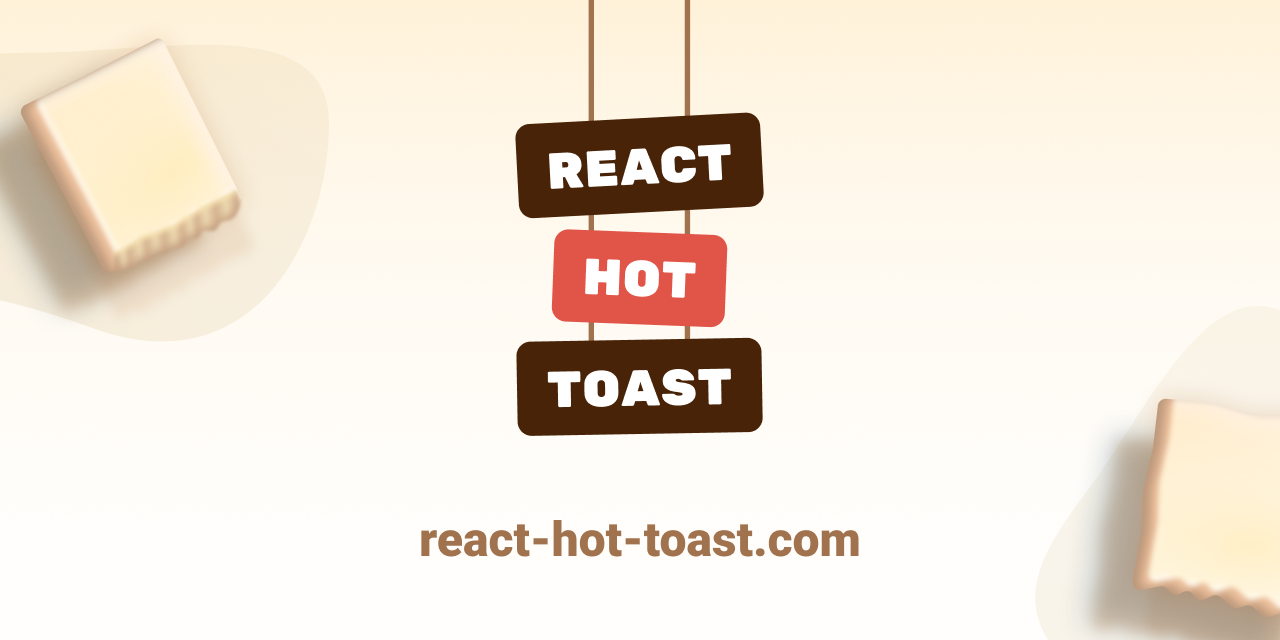
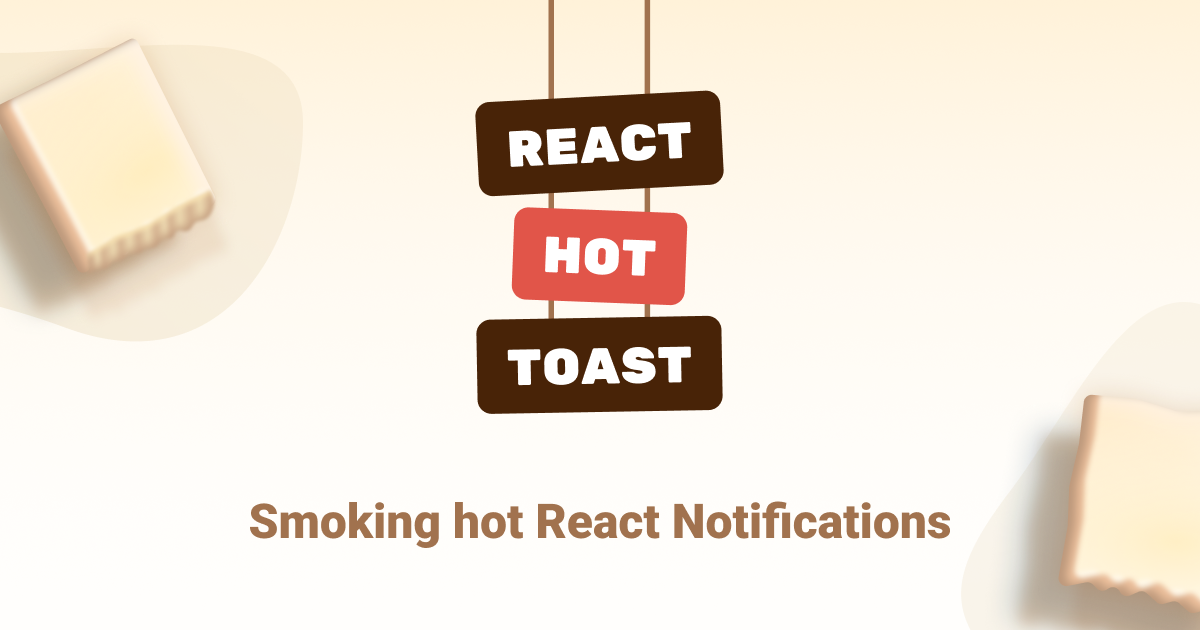
Landing page style improvements + Add Next-seo + OG Image

diff --git a/site/pages/index.tsx b/site/pages/index.tsx
@@ -1,17 +1,22 @@
-import Head from 'next/head';
-import Link from 'next/link';
+import { NextSeo } from 'next-seo';
 import Logo from '../assets/logo.svg';
 import Butter1 from '../assets/butter-1.svg';
 import Butter2 from '../assets/butter-2.svg';
 import GitHub from '../assets/github.svg';
 import Checkmark from '../assets/checkmark.svg';
-import toast, { Toaster, useToasterStore } from 'react-hot-toast';
+import toast, {
+  Toaster,
+  useToasterStore,
+  ToastPosition,
+} from 'react-hot-toast';
 import React, { useState } from 'react';
 import clsx from 'clsx';
+import { version } from '../../package.json';
 
 import { ToastExample } from '../components/sections/toast-example';
 import { Footer } from '../components/sections/footer';
 import { ToasterExample } from '../components/sections/toaster-example';
+import Link from 'next/link';
 
 const Feature: React.FC = ({ children }) => (
   <div className="flex gap-1 items-center">
@@ -32,7 +37,7 @@ const Step: React.FC<{
     </div>
     <div className="font-bold">{props.title}</div>
     <div className="text-red-700 text-sm">{props.subTitle}</div>
-    <code className="mt-2 border border-red-100 py-2 px-4 rounded font-bold bg-white w-full">
+    <code className="mt-2 border border-toast-200 py-2 px-4 rounded font-bold bg-white w-full">
       {props.code}
     </code>
   </div>
@@ -92,7 +97,7 @@ const Features = () => (
 );
 
 export default function Home() {
-  const [position, setPosition] = useState<any>('top-center');
+  const [position, setPosition] = useState<ToastPosition>('top-center');
   const [reverse, setReverse] = useState(false);
   const { toasts: allToasts } = useToasterStore();
 
@@ -100,33 +105,23 @@ export default function Home() {
     allToasts.filter((t) => t.visible).length && position.includes('top');
   return (
     <div>
-      <Head>
-        <title>react-hot-toast - The best React notifications in town</title>
-      </Head>
+      <NextSeo
+        title={'react-hot-toast - The Best React Notifications in Town'}
+        openGraph={{
+          images: [
+            {
+              url: `https://react-hot-toast.com/social-image.png`,
+              width: 1200,
+              height: 630,
+            },
+          ],
+        }}
+        description="Add beautiful notifications to your React app with react-hot-toast. Lightweight. Smoking hot by default."
+      />
       <header className="bg-gradient-to-b from-toast-50 to-white bg-opacity-10">
         <div className="container  flex flex-col items-center relative">
           <Butter1
             className="absolute -left-24 md:left-24 transition-all duration-200"
-            onClick={() => {
-              // toast(
-              //   <span>
-              //     Pssst! Get -20% off Splitbee Pro:{' '}
-              //     <a href="https://splitbee.io/?butter">
-              //       <code>
-              //         <b>REACT-HOT-TOST</b>
-              //       </code>
-              //     </a>
-              //   </span>,
-              //   {
-              //     icon: (
-              //       <div className="text-3xl min-w-2xl bg-green-500 inline-block">
-              //         🤫 🐝
-              //       </div>
-              //     ),
-              //     duration: 100000,
-              //   }
-              // );
-            }}
             style={{
               opacity: shouldFade ? 0.5 : 1,
             }}
@@ -140,20 +135,14 @@ export default function Home() {
               style={{
                 opacity: shouldFade ? 0.2 : 1,
                 filter: `blur(${shouldFade ? 6 : 0}px)`,
-                // transform: toasts.length
-                //   ? 'translateY(-100%)'
-                //   : 'translateY(0)',
               }}
             />
-            {/* <Link href="/docs">
-              <a className="flex">Documentation</a>
-            </Link> */}
           </div>
           <div className="text-center my-12 relative transition-all duration-200">
-            <h1 className="text-4xl animate-enter font-bold text-toast-900">
+            <h1 className="text-3xl md:text-4xl animate-enter font-bold text-toast-900">
               The Best Toast in Town.
             </h1>
-            <h2 className="text-2xl font-bold text-toast-600 mt-2">
+            <h2 className="text-xl md:text-2xl font-bold text-toast-600 mt-2">
               Smoking hot React notifications.
             </h2>
           </div>
@@ -210,11 +199,13 @@ export default function Home() {
               <span className="flex-1 text-toast-800 text-center">GitHub</span>
             </a>
           </div>
-
-          {/* <div className="m-4 gap-2">
-            <a href="https://github.com/timolins/react-hot-toast">GitHub</a>
-            <a href="https://twitter.com/timolins">Twitter</a>
-          </div> */}
+          <div className="text-toast-600 my-2">
+            <Link href="/docs">
+              <a className="underline">Documentation</a>
+            </Link>
+            {' · '}
+            <span>v{version}</span>
+          </div>
 
           <Features />
           <Steps />
@@ -224,9 +215,7 @@ export default function Home() {
               <ToastExample />
             </div>
             <div className="my-14">
-              <h2 className="mr-5 mb-4 text-right text-2xl font-bold">
-                Change Position
-              </h2>
+              <h2 className="mr-5 mb-4 text-2xl font-bold">Change Position</h2>
 
               <ToasterExample
                 onReverse={setReverse}
@@ -238,7 +227,6 @@ export default function Home() {
           </div>
         </div>
       </header>
-
       <Toaster position={position} reverseOrder={reverse} toastOptions={{}} />
       <div className="container flex justify-end -mt-24 pointer-events-none">
         <Butter2 className="transform translate-x-20" />

diff --git a/site/components/docs-layout.tsx b/site/components/docs-layout.tsx
@@ -1,17 +1,28 @@
 import * as React from 'react';
-import Head from 'next/head';
 import Link from 'next/link';
 import { Footer } from './sections/footer';
 import Logo from '../assets/logo-small.svg';
 import { Toaster } from 'react-hot-toast';
+import { NextSeo } from 'next-seo';
 
 export default function DocsLayout({ children, meta }) {
   return (
     <div className="bg-toast-50 bg-opacity-50 min-h-screen flex flex-col">
-      <Head>
-        <title>{meta.title} - react-hot-toast</title>
-      </Head>
-      <header className="container max-w-2xl my-12 flex justify-between items-center">
+      <NextSeo
+        titleTemplate="%s - react-hot-toast"
+        title={meta.title}
+        openGraph={{
+          images: [
+            {
+              url: `https://react-hot-toast.com/social-image.png`,
+              width: 1200,
+              height: 630,
+            },
+          ],
+        }}
+      />
+
+      <header className="container max-w-3xl my-12 flex justify-between items-center">
         <Link href="/">
           <Logo className="cursor-pointer" aria-label="react-hot-toast Logo" />
         </Link>
@@ -19,7 +30,7 @@ export default function DocsLayout({ children, meta }) {
           <a className="flex">Documentation</a>
         </Link>
       </header>
-      <main className="container max-w-2xl prose prose-toast text-toast-900 flex-1">
+      <main className="container max-w-3xl prose prose-toast text-toast-900 flex-1">
         {children}
       </main>
       <header className="bg-gradient-to-b from-toast-50 to-white bg-opacity-10"></header>

diff --git a/site/pages/_app.tsx b/site/pages/_app.tsx
@@ -1,14 +1,19 @@
-import '../styles/main.css';
 import '../styles/tailwind-utils.css';
+import '../styles/main.css';
 import * as React from 'react';
+import Link from 'next/link';
 import Head from 'next/head';
 
 import { MDXProvider } from '@mdx-js/react';
 import { Code } from '../components/code';
 
 const components = {
+  a: Link,
   inlineCode: (props) => (
-    <code className="bg-toast-300 py-1 my-0.5 px-1 rounded" {...props} />
+    <code
+      className="bg-toast-300 py-1 my-0.5 px-1 rounded bg-opacity-40"
+      {...props}
+    />
   ),
   code: (props) => <Code snippet={props.children} />,
 };

diff --git a/site/components/code.tsx b/site/components/code.tsx
@@ -105,14 +105,14 @@ export const Code: React.FC<{
     {...defaultProps}
     code={props.snippet}
     theme={theme}
-    language={'javascript'}
+    language={'jsx'}
   >
     {({ className, style, tokens, getLineProps, getTokenProps }) => (
       <pre
         className={clsx(
           props.className,
           className,
-          'h-full w-full rounded-lg p-4'
+          'h-full w-full rounded-lg p-4 overflow-x-auto flex flex-col items justify-center'
         )}
         style={style}
       >
